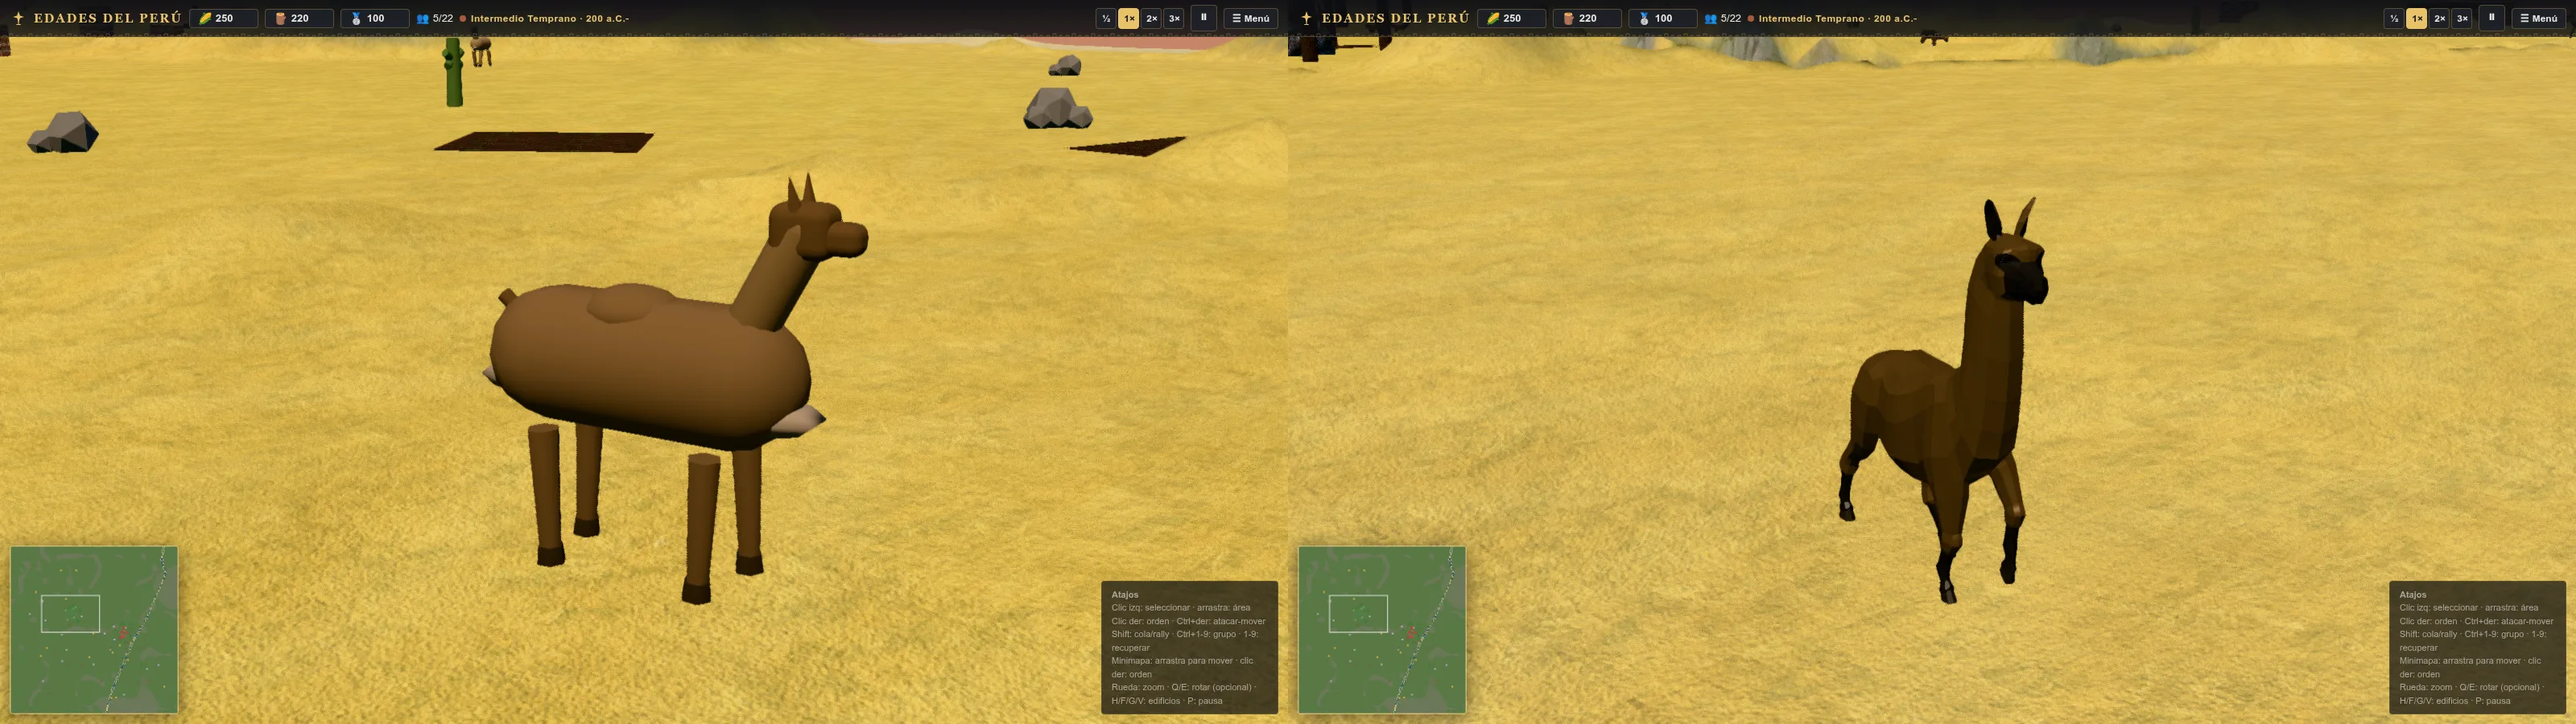
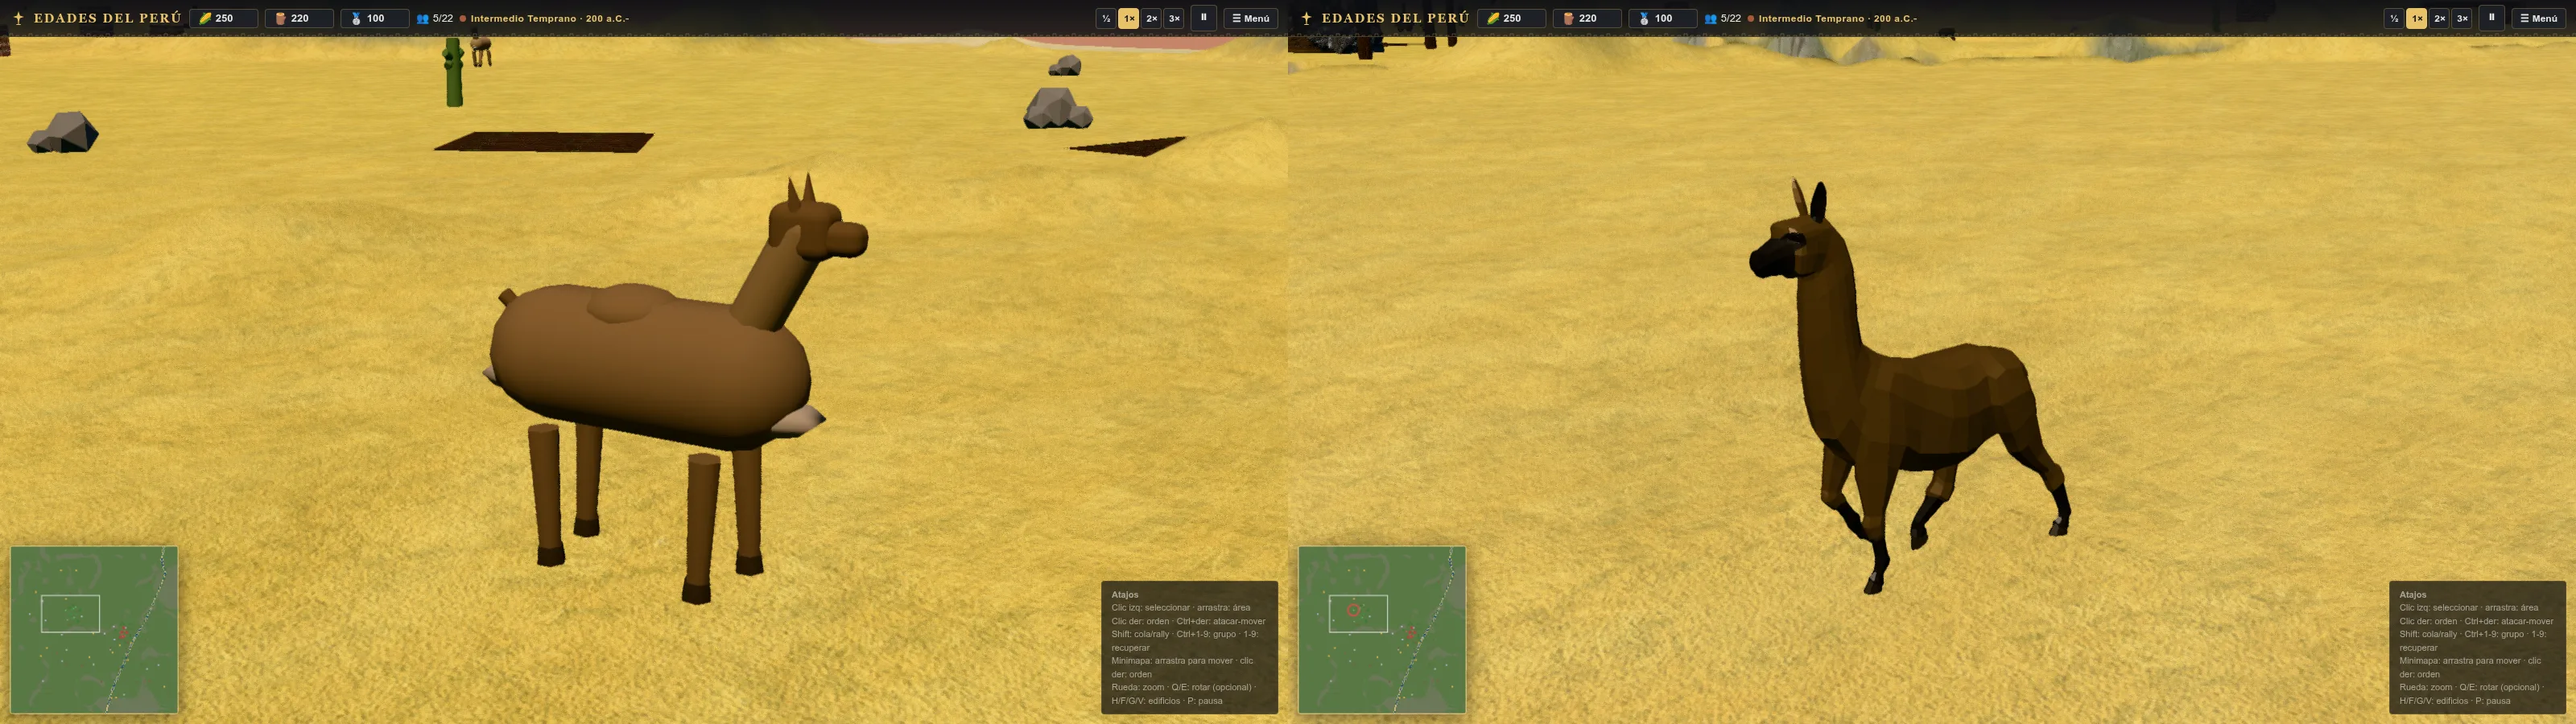
fix(fauna): address llama pilot review
Fix the orbit heading (yaw = -angle), make foot grounding a data-driven per-asset flag with camelid clearance, derive the preload list from the species mapping, update the ambient E2E for rigged fauna and add facing/transition coverage. Correct the configured-12 performance figures.

diff --git a/tests/e2e/ambient.spec.ts b/tests/e2e/ambient.spec.ts
@@ -10,10 +10,13 @@ test('ambient props and fauna are placed at boot', async ({ page }) => {
     const meshes = [...g.props.meshes.values()] as { count: number }[];
     const fauna = g.wildlife.animals as {
       group: { name: string; children: unknown[] };
+      rig: unknown | null;
       legs: { rotation: { x: number; z: number } }[];
       wings: { pivot: { rotation: { x: number; z: number } } }[];
     }[];
-    const sample = fauna.find((a) => a.legs.length) ?? fauna.find((a) => a.wings.length);
+    const rigged = fauna.filter((a) => a.rig);
+    const procedural = fauna.filter((a) => !a.rig);
+    const sample = procedural.find((a) => a.legs.length) ?? procedural.find((a) => a.wings.length);
     let limbMoved = false;
     if (sample) {
       const limb = sample.legs[0] ?? sample.wings[0].pivot;
@@ -26,17 +29,21 @@ test('ambient props and fauna are placed at boot', async ({ page }) => {
       propKinds: meshes.length,
       instances: meshes.reduce((n, m) => n + m.count, 0),
       fauna: fauna.length,
-      articulated: fauna.every((a) => a.group.children.length > 1),
-      speciesOk: fauna.every((a) => (/llama|vicuna/.test(a.group.name) ? a.legs.length === 4 : a.wings.length === 2)),
+      rigged: rigged.length,
+      articulated: procedural.every((a) => a.group.children.length > 1),
+      speciesOk: procedural.every((a) =>
+        /llama|vicuna/.test(a.group.name) ? a.legs.length === 4 : a.wings.length === 2,
+      ),
       limbMoved,
     };
   });
   expect(out.propKinds).toBe(4);
   expect(out.instances).toBeGreaterThan(0);
   expect(out.fauna).toBeGreaterThan(0);
-  expect(out.articulated).toBe(true); // body + animated limbs/wings
-  expect(out.speciesOk).toBe(true); // quadrupeds have 4 legs, birds 2 wings
-  expect(out.limbMoved).toBe(true); // the gait/flap actually animates
+  expect(out.rigged).toBeGreaterThan(0); // llama pilot
+  expect(out.articulated).toBe(true); // procedural body + animated limbs/wings
+  expect(out.speciesOk).toBe(true); // procedural quadrupeds 4 legs, birds 2 wings
+  expect(out.limbMoved).toBe(true); // the procedural gait/flap actually animates
 });
 
 test('buildings grow while under construction', async ({ page }) => {

diff --git a/tests/fauna-assets.test.ts b/tests/fauna-assets.test.ts
@@ -6,7 +6,7 @@ import { acquireRig, clearModelAssets, loadModelAssetFromData } from '../src/ren
 import { clearFaunaTemplates } from '../src/rendering/faunaModels';
 import { Wildlife } from '../src/rendering/Wildlife';
 
-const MODEL_URL = new URL('../src/assets/models/alpaca_llama.glb', import.meta.url);
+const MODEL_URL = new URL('../src/assets/models/quaternius_alpaca.glb', import.meta.url);
 let glb: ArrayBuffer;
 
 beforeAll(() => {
@@ -40,7 +40,7 @@ describe('rigged fauna assets', () => {
   });
 
   it('clones independent camelid skeletons and grounds the feet', async () => {
-    await loadModelAssetFromData('quaternius_alpaca', glb);
+    const asset = await loadModelAssetFromData('quaternius_alpaca', glb);
     const a = acquireRig('quaternius_alpaca')!;
     const b = acquireRig('quaternius_alpaca')!;
     expect(a.root.getObjectByName('Head')).not.toBe(b.root.getObjectByName('Head'));
@@ -54,12 +54,15 @@ describe('rigged fauna assets', () => {
     expect(a.root.getObjectByName('Head')!.quaternion.equals(b.root.getObjectByName('Head')!.quaternion)).toBe(false);
 
     const bounds = new THREE.Box3().setFromObject(a.root);
-    expect(Math.abs(bounds.min.y)).toBeLessThan(0.01);
+    expect(Math.abs(bounds.min.y - (asset.definition.groundClearance ?? 0))).toBeLessThan(0.01);
     expect(bounds.max.y - bounds.min.y).toBeGreaterThan(1);
 
-    a.play('eat', 0);
-    a.update(0.5);
+    a.play('eat', 0.25);
+    a.update(0.3);
     expect(a.currentState).toBe('eat');
+    a.play('walk', 0.25);
+    a.update(0.3);
+    expect(a.currentState).toBe('walk');
 
     a.dispose();
     b.dispose();

diff --git a/tests/e2e/fauna.spec.ts b/tests/e2e/fauna.spec.ts
@@ -68,6 +68,28 @@ test('the llama pilot uses the rigged camelid and keeps the procedural fallback'
   expect(observed.fauna.some((a) => a.species === 'vicuna' && !a.rigged)).toBe(true);
   expect(llamas.some((a) => a.state === 'walk' || a.state === 'eat')).toBe(true);
   for (const sample of observed.terrain) expect(Math.abs(sample.y - sample.ground)).toBeLessThan(0.02);
+
+  const orientation = await page.evaluate(() => {
+    const g = (window as unknown as { game: any }).game;
+    const THREE = (window as unknown as { THREE: any }).THREE;
+    let walking: any = null;
+    for (let i = 0; i < 240 && !walking; i++) {
+      g.wildlife.update(1 / 60);
+      walking = g.wildlife.animals.find((a: any) => a.rig?.currentState === 'walk');
+    }
+    if (!walking) return null;
+    const before = walking.group.position.clone();
+    g.wildlife.update(1 / 60);
+    const velocity = walking.group.position.clone().sub(before);
+    if (velocity.lengthSq() < 1e-8) return null;
+    const quaternion = new THREE.Quaternion();
+    walking.group.getWorldQuaternion(quaternion);
+    const forward = new THREE.Vector3(0, 0, 1).applyQuaternion(quaternion);
+    return { dot: velocity.normalize().dot(forward.normalize()) };
+  });
+  expect(orientation).not.toBeNull();
+  expect(orientation!.dot).toBeGreaterThan(0.9);
+
   expect(errors).toEqual([]);
   expect(modelWarnings).toEqual([]);
 

diff --git a/src/rendering/modelAssetRegistry.ts b/src/rendering/modelAssetRegistry.ts
@@ -18,10 +18,14 @@ export interface ModelAssetDefinition {
   readonly yawOffset: number;
   /** Gameplay state -> clip name in the GLB. `idle` is required. */
   readonly clips: Partial<Record<RigClipState, string>>;
+  /** Ground the bind-pose feet at y=0 (units and terrestrial fauna). */
+  readonly ground: boolean;
+  /** Extra world-space lift after grounding (avoids clip-driven foot penetration). */
+  readonly groundClearance?: number;
 }
 
 const UAL_URL = modelUrls['../assets/models/ual_mannequin.glb'] ?? '';
-const ALPACA_URL = modelUrls['../assets/models/alpaca_llama.glb'] ?? '';
+const ALPACA_URL = modelUrls['../assets/models/quaternius_alpaca.glb'] ?? '';
 
 /**
  * The mannequin is the pipeline's validation asset (Quaternius Universal
@@ -33,6 +37,7 @@ export const MODEL_ASSET_DEFS: Record<ModelAssetId, ModelAssetDefinition> = {
     url: UAL_URL,
     scale: 0.78,
     yawOffset: 0,
+    ground: true,
     clips: {
       idle: 'Idle_Loop',
       walk: 'Walk_Loop',
@@ -49,6 +54,8 @@ export const MODEL_ASSET_DEFS: Record<ModelAssetId, ModelAssetDefinition> = {
     url: ALPACA_URL,
     scale: 0.3,
     yawOffset: 0,
+    ground: true,
+    groundClearance: 0.02,
     clips: {
       idle: 'Idle',
       walk: 'Walk',

diff --git a/src/model/defs/modelAssets.ts b/src/model/defs/modelAssets.ts
@@ -10,7 +10,7 @@ export const RIG_DEMO_ASSET_ID: ModelAssetId = MANNEQUIN_ASSET_ID;
 /** Presentation variants applied on top of a shared rigged asset. */
 export type RigVariant = 'caral_worker';
 
-/** Gameplay states mapped to clips; a rig may omit any state except `idle`. */
+/** Animation states mapped to clips; `eat` is fauna-only. A rig may omit any state except `idle`. */
 export type RigClipState = 'idle' | 'walk' | 'work' | 'attack' | 'eat';
 
 export const RIG_CLIP_STATES: readonly RigClipState[] = ['idle', 'walk', 'work', 'attack', 'eat'];
@@ -44,13 +44,11 @@ export interface RigModelChoice {
   variant?: RigVariant;
 }
 
-export type UnitModelChoice = RigModelChoice;
-
 /**
  * Rigged model for a unit kind, or `null` to keep the procedural model.
  * The migration is progressive: this pilot covers the Caral worker only.
  */
-export function unitModelAsset(kind: UnitKind, era: Era, civ: CivId): UnitModelChoice | null {
+export function unitModelAsset(kind: UnitKind, era: Era, civ: CivId): RigModelChoice | null {
   if (kind === UnitKind.WORKER && civ === CivId.CARAL && era === Era.FORMATIVE) {
     return { asset: MANNEQUIN_ASSET_ID, variant: 'caral_worker' };
   }

diff --git a/src/rendering/Wildlife.ts b/src/rendering/Wildlife.ts
@@ -140,7 +140,8 @@ export class Wildlife {
         const x = a.homeX + Math.cos(a.angle) * a.radius;
         const z = a.homeZ + Math.sin(a.angle) * a.radius;
         a.group.position.set(x, a.heightAt(x, z), z);
-        a.group.rotation.y = a.angle + Math.PI / 2; // face the direction of travel
+        // Orbit derivative is (-sin, cos); a +Z-facing model needs yaw = -angle.
+        a.group.rotation.y = -a.angle;
         a.rig.play(grazing ? 'eat' : 'walk', 0.25);
         const speed = a.angSpeed * a.radius;
         a.rig.setPlaybackRate(
@@ -158,7 +159,8 @@ export class Wildlife {
         ? Math.abs(Math.sin(this.time * 3 + a.bobPhase)) * 0.03
         : Math.sin(this.time * 1.6 + a.bobPhase) * 0.25;
       a.group.position.set(x, y + a.template.flyHeight + bob, z);
-      a.group.rotation.y = angle + Math.PI / 2; // face the direction of travel
+      // Orbit derivative is (-sin, cos); a +Z-facing model needs yaw = -angle.
+      a.group.rotation.y = -angle;
 
       if (a.legs.length) {
         const phase = this.time * a.template.stride + a.bobPhase;

diff --git a/src/rendering/RigInstance.ts b/src/rendering/RigInstance.ts
@@ -26,11 +26,14 @@ export class RigInstance {
     this.model = cloneSkeleton(asset.scene);
     this.model.scale.setScalar(asset.definition.scale);
     this.model.rotation.y += asset.definition.yawOffset;
-    // Normalise the bind-pose feet to y=0: the camelid asset has a small
-    // positive/negative offset, while the game places the root on the terrain.
-    this.model.updateMatrixWorld(true);
-    const bounds = new THREE.Box3().setFromObject(this.model);
-    if (Number.isFinite(bounds.min.y)) this.model.position.y -= bounds.min.y;
+    // Normalise the bind-pose feet to y=0 when the asset is terrain-bound; a
+    // small clearance keeps walk clips from dipping below the ground.
+    if (asset.definition.ground) {
+      this.model.updateMatrixWorld(true);
+      const bounds = new THREE.Box3().setFromObject(this.model);
+      if (Number.isFinite(bounds.min.y)) this.model.position.y -= bounds.min.y;
+      this.model.position.y += asset.definition.groundClearance ?? 0;
+    }
     this.root.name = `rig:${asset.id}`;
     this.root.add(this.model);
 

diff --git a/src/model/defs/wildlife.ts b/src/model/defs/wildlife.ts
@@ -51,7 +51,13 @@ export function faunaCountFor(region: GeographicRegion): number {
 
 /** Rigged assets a region can spawn (preloaded before the wildlife planner runs). */
 export function wildlifeModelAssetIds(region: GeographicRegion): ModelAssetId[] {
-  return REGION_WEIGHTS[region].llama > 0 ? ['quaternius_alpaca'] : [];
+  const ids = new Set<ModelAssetId>();
+  for (const id of SPECIES_IDS) {
+    if (REGION_WEIGHTS[region][id] <= 0) continue;
+    const choice = wildlifeModelChoice(id);
+    if (choice) ids.add(choice.asset);
+  }
+  return [...ids];
 }
 
 /** Habitats are separated by altitude and water: pelicans on the shore, camelids on the puna. */

diff --git a/src/main.ts b/src/main.ts
@@ -148,6 +148,8 @@ async function boot(): Promise<void> {
   const civs = mission ? [mission.playerCiv, mission.enemyCiv] : [settings.civPlayer, settings.civAI];
   const period = mission?.period ?? settings.period;
   const modelIds = modelAssetIdsForMatch(period, civs);
+  // Mirrors the mission overrides Game applies before `resolveMapProfile`, so
+  // fauna preload and the planner resolve the same region.
   const profile = resolveMapProfile({
     period,
     civ: mission?.playerCiv ?? settings.civPlayer,

diff --git a/docs/development.md b/docs/development.md
@@ -437,23 +437,36 @@ extending the same treatment to other civilizations and eras.
 
 ## Rigged fauna (llama pilot)
 
-The species inventory and biome/altitude/seed selection are unchanged (`wildlife.ts`: llama in the Andes/altiplano,
-vicuña above 4 m, condor above 5 m, pelican near water). `wildlifeModelChoice('llama')` returns the
-`quaternius_alpaca` asset; `wildlifeModelAssetIds(region)` preloads it during `boot()` for regions whose llama
-weight is non-zero (main resolves the region with the same `resolveMapProfile` as `Game`). `Wildlife.spawn` asks
-for a rig through `acquireRig`; if it is unavailable it builds the procedural animal exactly as before, and the
-`MAX_ANIMALS = 16` cap is unchanged.
+**Inventory and selection (unchanged):** `wildlife.ts` has llama, vicuña, condor and pelican. Per-region weights
+(`REGION_WEIGHTS`) and suitability gates decide the mix: llama above 2 m, vicuña above 4 m, condor above 5 m and
+pelican only near water/beach; region counts are 12 (altiplano/high Andes), 10 (valley/coast) and 4 (Amazon),
+with a hard `MAX_ANIMALS = 16` cap. The region comes from `resolveMapProfile` (period + civ + map type + optional
+mission region); the **period does not add/remove fauna** — ambient life is a visual, period-agnostic layer. The
+llama/alpaca is documented from the Andean camelid herding dossiers (`docs/historia/civilizaciones/collas_lupaca.md`,
+`recuay.md`); no new species or spawn rule is added.
+
+`wildlifeModelChoice('llama')` returns the `quaternius_alpaca` asset; `wildlifeModelAssetIds(region)` derives the
+preload list from that same mapping and the region weights during `boot()` (main resolves the region with the
+same `resolveMapProfile` arguments as `Game`). `Wildlife.spawn` asks for a rig through `acquireRig`; if it is
+unavailable it builds the procedural animal exactly as before. The alpaca is an Andean camelid **stand-in** for
+the existing llama, not a new species; vicuña/condor/pelican stay procedural in this iteration.
 
 The rig plays `walk` while it advances its deterministic orbit and stops to play `eat` on a deterministic
-sinusoidal cycle per animal; the root sits at `Terrain.getHeight` and the model is grounded at its bind-pose feet.
+sinusoidal cycle per animal; walk playback follows the orbit speed. The root sits at `Terrain.getHeight`, the model
+is grounded at its bind-pose feet with a 2 cm clearance, and both rig and procedural animals now face their actual
+travel direction (the orbit tangent is `(-sin, cos)`, so the yaw is `-angle`).
 The alpaca is an Andean camelid stand-in for the existing llama species, not a new species; vicuña/condor/pelican
 remain procedural. Rigged fauna uses the same shared cache/clone/refcount rules as the worker.
 
-Measured cost on the altiplano map (8 fauna, 4 rigged, direct render): procedural set **+40 draw calls / +11,280
-triangles**; mixed set **+76 calls / +21,840 triangles** (about +4.5 calls and +1.3k triangles per replaced
-llama). The cap remains 16; `tests/e2e/fauna.spec.ts` covers spawn, clip states, grounding, procedural fallback
-and teardown. Evidence: `docs/media/fauna-llama-before-after.webp` and
-`docs/media/fauna-llama-rts-before-after.webp` (`map=altiplano`, seed 777, 1600x900).
+Measured cost on the altiplano map at the **configured 12 animals** (8 llamas replaced in the mixed set,
+direct render, shadows included): procedural set **+60 draw calls / +17,200 triangles**; mixed set **+132 calls /
++38,320 triangles**. Replacing 8 llamas therefore adds **+72 calls / +21,120 triangles**, about **+9 calls and
++2,640 triangles per llama**. `Wildlife.update` cost measured in-browser: **0.058 ms/step** for the mixed set vs
+0.008 ms/step procedural (software renderer), well below the 16.6 ms budget. The cap remains 16; `tests/e2e/fauna.spec.ts`
+covers spawn, clip states, terrain grounding, facing, procedural fallback and teardown, while
+`tests/e2e/ambient.spec.ts` still verifies the procedural limbs. Evidence:
+`docs/media/fauna-llama-before-after.webp` and `docs/media/fauna-llama-rts-before-after.webp`
+(`map=altiplano`, seed 777, 1600x900).
 
 Next iteration for fauna: replace vicuña/condor/pelican, add flight-specific states and terrain-avoidance if a
 rigged bird is added, and evaluate per-species LOD/update throttling at the 16-animal cap.

diff --git a/PROVENANCE.md b/PROVENANCE.md
@@ -58,7 +58,7 @@ slot is absent (offline / without assets).
 
 ## Fauna (rigged)
 
-- **Location**: `src/assets/models/alpaca_llama.glb` (loaded by `src/rendering/Wildlife.ts` through the same
+- **Location**: `src/assets/models/quaternius_alpaca.glb` (loaded by `src/rendering/Wildlife.ts` through the same
   `ModelAssets` cache).
 - **Asset**: *Alpaca* from Quaternius' **Ultimate Animated Animal Pack** (CC0 1.0). Used as the **llama pilot**:
   an Andean camelid stand-in for the existing `llama` species, not a new species. The vicuña, condor and pelican
